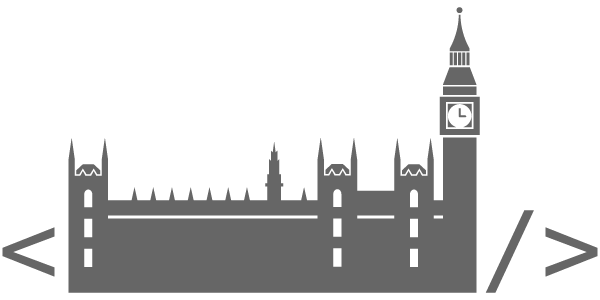
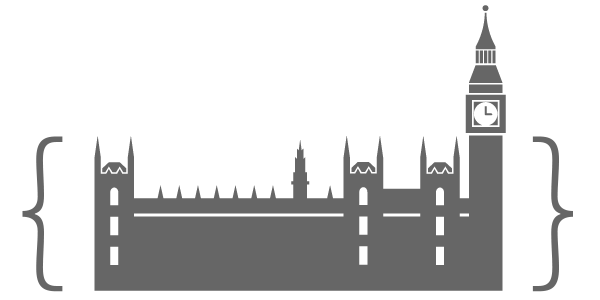
Update docs with current use of JSON.
Fix a couple of old links, and update header image.

Changed region(s): [[0.0, 0.03, 1.0, 0.99], [0.66, 0.81, 0.75, 0.9], [0.6, 0.81, 0.63, 0.9]]

diff --git a/members.md b/members.md
@@ -3,137 +3,120 @@ layout: page
 title: Members of Parliament
 ---
 
-Structured data about Members of Parliament. These are all XML files, open them
-in any text editor, XML viewer or some spreadsheets. In the files there are
-comments with more information. MPs data goes back to the start of Hansard at
-the start of the 19th century (including data from Parliament's historic
-Hansard project), data for Lords goes back to the major reform in 1999.
+Structured data about Members of Parliament. These are JSON or XML files, so
+you can open them in a text editor or similar. In the files there are comments
+with more information. MP data goes back to the start of Hansard at the start
+of the 19th century (including data from Parliament's historic Hansard
+project), data for Lords goes back to the major reform in 1999, and data for
+the devolved assemblies goes back to their creation.
 
 These files can all be found in the
 [GitHub repository members directory](https://github.com/mysociety/parlparse/tree/master/members).
 
-### all-members.xml / all-members-2010.xml / peers-ucl.xml
+## people.json
 
-List of all MPs (across two files) and list of all Lords. Includes their name
-and party. For MPs, also their constituency, and for Lords, also their peerage
-type and their county. There is a unique identifier for each entry. Each entry
-is a continuous period of holding office, loyal to the same party. An MP who was
-in two parliaments, or in one parliament then later became a Lord, will appear
-twice. An MP who also changed party will appear three times. Dates of deaths,
-byelections and party changes or whip revocations are recorded.
+Data of all MPs, Lords, MSPs and MLAs covered by the project, in [Popolo
+format](http://www.popoloproject.com), including names (and alternate names
+such as misspellings or name changes), party, constituency (non-Lords), and
+peerage information (Lords). There is a unique identifier for each element.
+Each membership is a continuous period of holding office, loyal to the same
+party. An MP who was in two parliaments, or in one parliament then later became
+a Lord, will have two memberships associated with the same person. An MP who
+also changed party will have three memberships. Dates of deaths, byelections
+and party changes are recorded.
 
-{% highlight xml %}
-<member
-    id="uk.org.publicwhip/member/1656"
-    house="commons"
-    title="" firstname="Emily" lastname="Thornberry"
-    constituency="Islington South &amp; Finsbury" party="Lab"
-    fromdate="2005-05-05" todate="9999-12-31"
-    fromwhy="general_election" towhy="still_in_office"
-/>
+{% highlight json %}
+{
+  "id": "uk.org.publicwhip/member/1656",
+  "name": {
+    "family_name": "Thornberry",
+    "given_name": "Emily"
+  },
+  "on_behalf_of_id": "labour",
+  "person_id": "uk.org.publicwhip/person/11656",
+  "post_id": "uk.org.publicwhip/cons/310",
+  "start_date": "2005-05-05",
+  "start_reason": "general_election"
+  "end_date": "2010-04-12",
+  "end_reason": "general_election_standing",
+},
 
-<lord
-    id="uk.org.publicwhip/lord/100633"
-    house="lords"
-    forenames="Margaret"
-    forenames_full="Margaret Hilda"
-    title="Baroness" lordname="Thatcher" lordofname=""
-    lordofname_full="Kesteven"
-    county="the County of Lincolnshire"
-    peeragetype="L" affiliation="Con"
-    fromdate="1992" todate="9999-12-31"
-    ex_MP="yes"
-/>
+{
+  "id": "uk.org.publicwhip/lord/100633",
+  "identifiers": [
+    {
+      "identifier": "L",
+      "scheme": "peeragetype"
+    }
+  ],
+  "label": "Peer",
+  "name": {
+    "additional_name": "Margaret Hilda",
+    "county": "the County of Lincolnshire",
+    "given_name": "Margaret",
+    "honorific_prefix": "Baroness",
+    "lordname": "Thatcher",
+    "lordofname": "",
+    "lordofname_full": "Kesteven"
+  },
+  "on_behalf_of_id": "conservative",
+  "organization_id": "house-of-lords",
+  "person_id": "uk.org.publicwhip/person/12975",
+  "role": "Peer",
+  "start_date": "1992"
+  "end_date": "2013-04-08",
+  "end_reason": "died",
+},
 {% endhighlight %}
 
-### people.xml
+### ministers.json / ministers-2010.json
 
-Links together groups of MPs, Lords and other person data who are the same real
-world person. Usually this is because they have the same name and are in the
-same constituency. Sometimes someone changes constituency between two
-parliaments, such as Shaun Woodward (Witney) and Shaun Woodward (St Helens
-South). This file records that they are the same person. Also includes offices
-from `ministers.xml` which were held by that person.
+Contains ministerial positions and the department they were in. Each one
+includes an ID, date range, and the person ID.
 
-{% highlight xml %}
-<person id="uk.org.publicwhip/person/10597" latestname="Paddy Tipping">
-    <office id="uk.org.publicwhip/member/1282"/>
-    <office id="uk.org.publicwhip/member/1815"/>
-    <office id="uk.org.publicwhip/member/597"/>
-    <office id="uk.org.publicwhip/moffice/226"/>
-</person>
+{% highlight json %}
+{
+  "id": "uk.parliament.data/Member/591/GovernmentPost/661",
+  "source": "datadotparl/governmentpost",
+  "role": "The Prime Minister",
+  "person_id": "uk.org.publicwhip/person/10068",
+  "organization_id": "house-of-commons",
+  "start_date": "2007-06-28",
+  "end_date": "2010-05-06"
+},
 {% endhighlight %}
 
-### ministers.xml / ministers-2010.xml
+### constituencies.json / sp-constituencies.json
 
-Contains ministerial positions and the department they were in.  Each one has a
-date range, the MP or Lord became a minister at some time on the start day, and
-stopped being one at some time on the end day. The matchid field is one sample
-MP or Lord office which that person also held. Alternatively, use the
-`people.xml` file to find out which person held the ministerial post.
+List of constituencies, including alternative spellings.
 
-{% highlight xml %}
-<moffice id="uk.org.publicwhip/moffice/327"
-    name="Ivor Caplin"
-    matchid="uk.org.publicwhip/member/784"
-    dept="HM Treasury" position="Assistant Whip"
-    fromdate="2001-06-12" todate="2003-06-13"
-    source="newlabministers2003-10-15">
-</moffice>
+{% highlight json %}
+{
+  "hansard_id": "232",
+  "id": "uk.org.publicwhip/cons/212",
+  "start_date": "1950",
+  "end_date": "2005-05-04",
+  "names": [
+    "Edinburgh Pentlands",
+    "Edinburgh, Pentlands"
+  ]
+},
 {% endhighlight %}
 
-### member-aliases.xml
-
-List of alternative names for MPs. Includes abbreviations, misspellings and name
-changes due to marriage. Either canonical names from the `all-members.xml` file
-above are given, or the constituency or surname where appropriate.
-
-{% highlight xml %}
-<alias fullname="Andrew Bennett" alternate="Andrew F Bennett" />
-<alias lastname="MacKay" alternate="Mackay" />
-<alias constituency="Worcester" alternate="Michael John Foster" />
-<alias fullname="Tony Wright" alternate="Anthony Wright" />
-{% endhighlight %}
-
-### constituencies.xml
-
-List of Parliamentary constituencies. Includes alternative spellings of each
-constituency. When boundaries change, a new identifier is given to the
-constituency even if it has the same name. They are also ranged with dates when
-they were in effect.
-
-{% highlight xml %}
-<constituency id="uk.org.publicwhip/cons/212"
-    fromdate="1000-01-01" todate="2005-05-04">
-    <name text="Edinburgh, Pentlands"/>
-    <name text="Edinburgh Pentlands"/>
-</constituency>
-{% endhighlight %}
-
-### websites.xml, guardian-links.xml, bbc-links.xml, edm-links.xml, wikipedia-commons.xml, wikipedia-lords.xml
+### websites.xml, bbc-links.xml, wikipedia-*.xml, wikipedia-lords.xml
 
 Various links to external websites which have information about MPs and Lords,
-including biographies on Wikipedia, and each MPs own website. Indexed by MP or
-Lord identifier.
+including biographies on Wikipedia, and each MP's own website. Indexed by
+person ID.
 
 {% highlight xml %}
 <personinfo id="uk.org.publicwhip/person/10197" mp_website="http://www.frankfield.com" />
 
-<personinfo id="uk.org.publicwhip/person/10006"
-    guardian_mp_summary="http://politics.guardian.co.uk/person/0,,-35,00.html" />
-<consinfo canonical="East Surrey"
-    guardian_election_results="http://politics.guardian.co.uk/hoc/constituency/0,,-906,00.html" />
-<memberinfo id="uk.org.publicwhip/member/692" swing_to_lose_seat="14.0" />
-<memberinfo id="uk.org.publicwhip/member/692" majority_in_seat="13203" />
+<personinfo id="uk.org.publicwhip/person/10777"
+    bbc_profile_url="http://news.bbc.co.uk/democracylive/hi/representatives/profiles/25752.stm" />
 
-<memberinfo id="uk.org.publicwhip/member/1224"
-    bbc_profile_url="http://news.bbc.co.uk/1/shared/mpdb/html/55.stm" />
-
-<memberinfo id="uk.org.publicwhip/member/687"
-    edm_ais_url="http://edm.ais.co.uk/weblink/html/member.html/mem=AbbottSlAsHcOdEsTrInGDiane" />
-
-<memberinfo id="uk.org.publicwhip/lord/100007"
-    wikipedia_url="http://en.wikipedia.org/wiki/John_Alderdice%2C_Baron_Alderdice" />
+<personinfo id="uk.org.publicwhip/person/10001"
+    wikipedia_url="http://en.wikipedia.org/wiki/Diane_Abbott" />
 {% endhighlight %}
 
 ### Register of Members Interests (`scrapedxml/regmem`)
@@ -165,7 +148,7 @@ How much each MP claimed as expenses from parliament for travel and so on.
 ### Voting Record
 
 Attendance, rebellion rate and individual votes in divisions are available from
-the [Public Whip project](http://publicwhip.owl/project/data.php).
+the [Public Whip project](http://www.publicwhip.org.uk/project/data.php).
 
 <hr>
 
@@ -179,15 +162,6 @@ You can browse the list of available files and download them individually at:
 
 ### From GitHub
 
-You can check out a copy of all the latest members XML from GitHub using:
+You can check out a copy of all the latest members data from GitHub using:
 
 `git clone https://github.com/mysociety/parlparse`
-
-<hr>
-
-## Tools
-
-### rest.cgi
-
-A programmer's interface for matching names. This uses the `all-members.xml`,
-`member-aliases.xml` and `constituencies.xml` to match MP names.

diff --git a/index.md b/index.md
@@ -16,8 +16,8 @@ use.
 
 <a href="http://www.theyworkforyou.com/contact/">Contact the TheyWorkForYou
 team</a> with any questions, or join the <a
-href="https://secure.mysociety.org/admin/lists/mailman/listinfo/developers-
-public ">mySociety public email list</a> and say hello.
+href="https://www.mysociety.org/subscribe">mySociety public email list</a> and
+say hello.
 
 ## Types of Data
 
